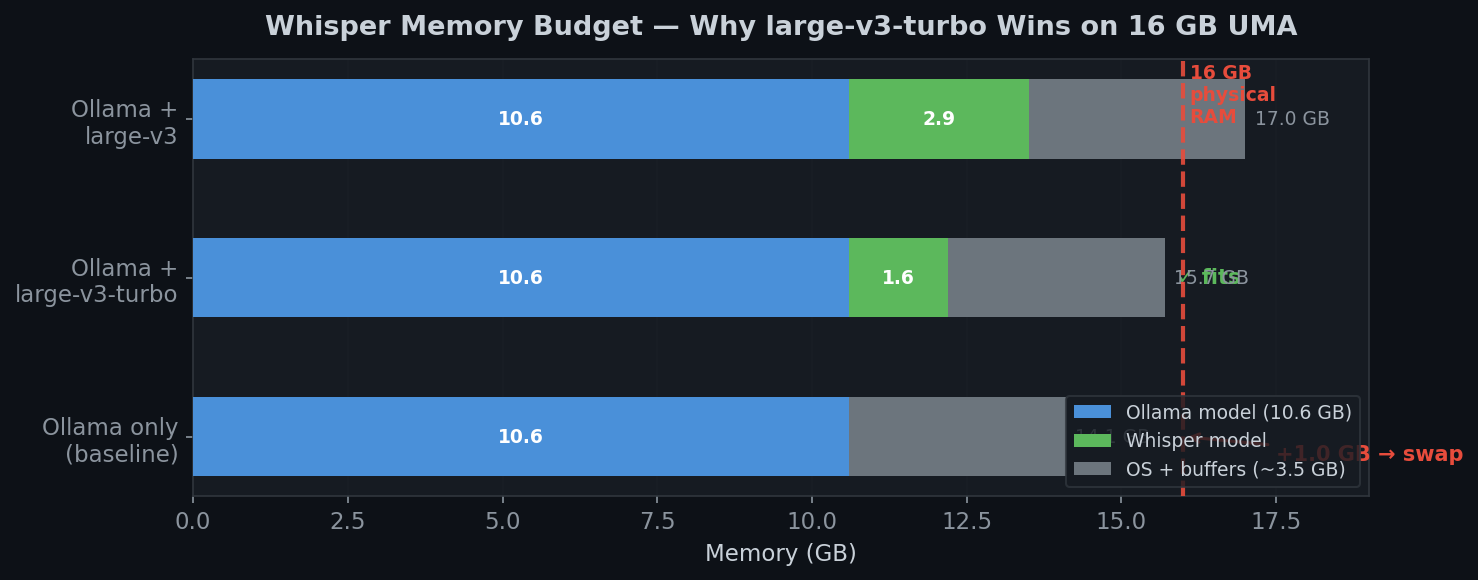
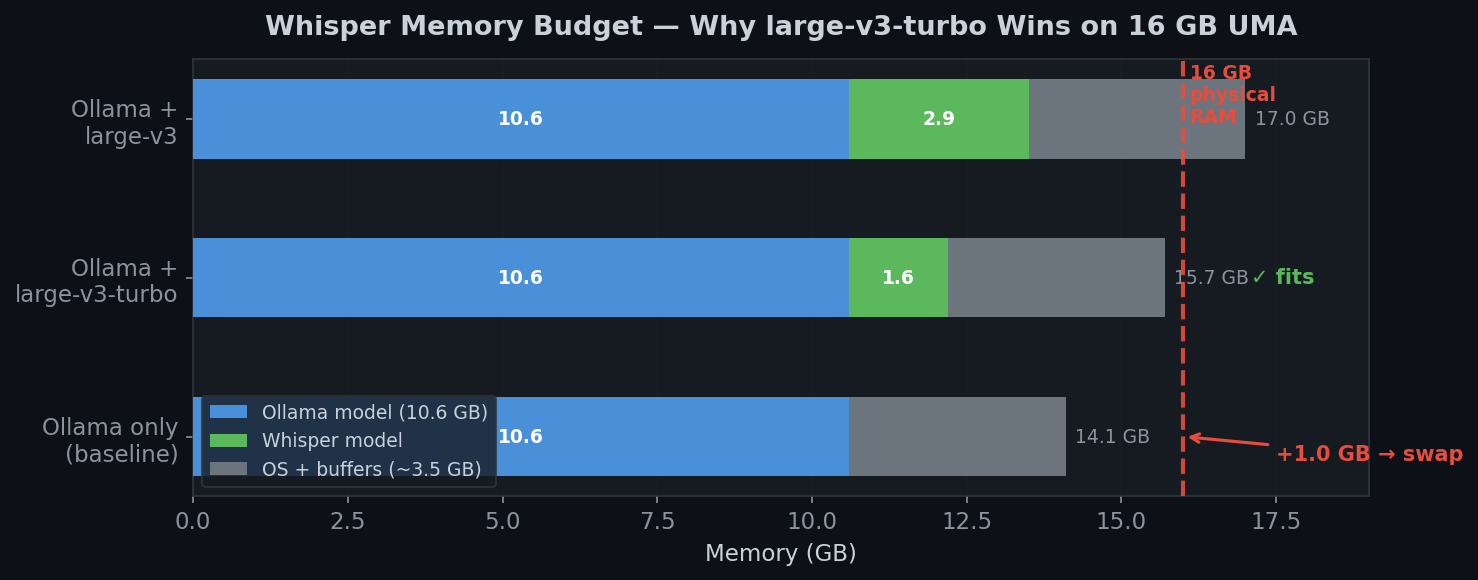
Increase Signal chat LLM timeout to 900s (15 min)

Changed region(s): [[0.1245, 0.6828, 0.3424, 0.8379], [0.7158, 0.6828, 0.9337, 0.8379], [0.8092, 0.4655, 0.9026, 0.4966]]

diff --git a/netscan/queue-runner.py b/netscan/queue-runner.py
@@ -106,6 +106,7 @@ SIGNAL_CHAT_MODEL = "qwen3.5-35b-a3b-iq2m"
 SIGNAL_CHAT_CTX = 16384             # Context window for chat responses (matches OLLAMA_CONTEXT_LENGTH)
 SIGNAL_CHAT_MAX_EXEC = 3            # Max shell commands per message (search+fetch+verify)
 SIGNAL_EXEC_TIMEOUT_S = 30          # Timeout for shell commands
+SIGNAL_LLM_TIMEOUT_S = 900          # 15 min — MoE model with large context can be slow
 SIGNAL_MAX_REPLY = 1800             # Signal message char limit
 DATA_DIR = Path("/opt/netscan/data")
 
@@ -2086,7 +2087,7 @@ def chat_with_llm(user_text, allow_sd=True, attachment_path=None):
             req = urllib.request.Request(
                 f"{OLLAMA_URL}/api/chat", data=payload,
                 headers={"Content-Type": "application/json"})
-            with urllib.request.urlopen(req, timeout=300) as resp:
+            with urllib.request.urlopen(req, timeout=SIGNAL_LLM_TIMEOUT_S) as resp:
                 data = json.loads(resp.read())
             reply = data.get('message', {}).get('content', '').strip()
         except Exception as e:

diff --git a/benchmarks/generate-feature-charts.py b/benchmarks/generate-feature-charts.py
@@ -404,7 +404,7 @@ def chart_whisper_budget():
                     zorder=5)
 
     # "Fits" annotation for turbo
-    ax.text(total[1] + 0.2, 1, '✓ fits', fontsize=10, color=C_TURBO,
+    ax.text(total[1] + 0.2 + 1.2, 1, '✓ fits', fontsize=10, color=C_TURBO,
             fontweight='bold', va='center')
 
     # Total labels at end of each bar
@@ -429,7 +429,7 @@ def chart_whisper_budget():
     ax.set_yticks(y)
     ax.set_yticklabels(scenarios)
     ax.set_xlim(0, 19)
-    ax.legend(loc='lower right', framealpha=0.8, edgecolor='#30363d',
+    ax.legend(loc='lower left', framealpha=0.8, edgecolor='#30363d',
               facecolor='#161b22', fontsize=9)
     ax.grid(axis='x', alpha=0.3, zorder=0)
 

diff --git a/scripts/ollama-proxy.py b/scripts/ollama-proxy.py
@@ -33,7 +33,7 @@ class OllamaProxy(http.server.BaseHTTPRequestHandler):
             if val:
                 req.add_header(h, val)
         try:
-            resp = urllib.request.urlopen(req, timeout=600)
+            resp = urllib.request.urlopen(req, timeout=900)
         except urllib.error.HTTPError as e:
             self.send_response(e.code)
             self.end_headers()

diff --git a/Readme.md b/Readme.md
@@ -703,7 +703,7 @@ The personality is baked into `queue-runner.py`'s `SYSTEM_PROMPT` — no externa
 | Scenario | Latency |
 |----------|:-------:|
 | Text reply (warm) | 10–30s |
-| Complex reasoning with tool use | 30–90s |
+| Complex reasoning with tool use | 1–5 min |
 | Image generation (FLUX.2-klein-9B 512²) | ~105s |
 | Image generation + auto-upscale 4× | ~130s |
 | Image editing (Kontext 512²) | ~5 min |
